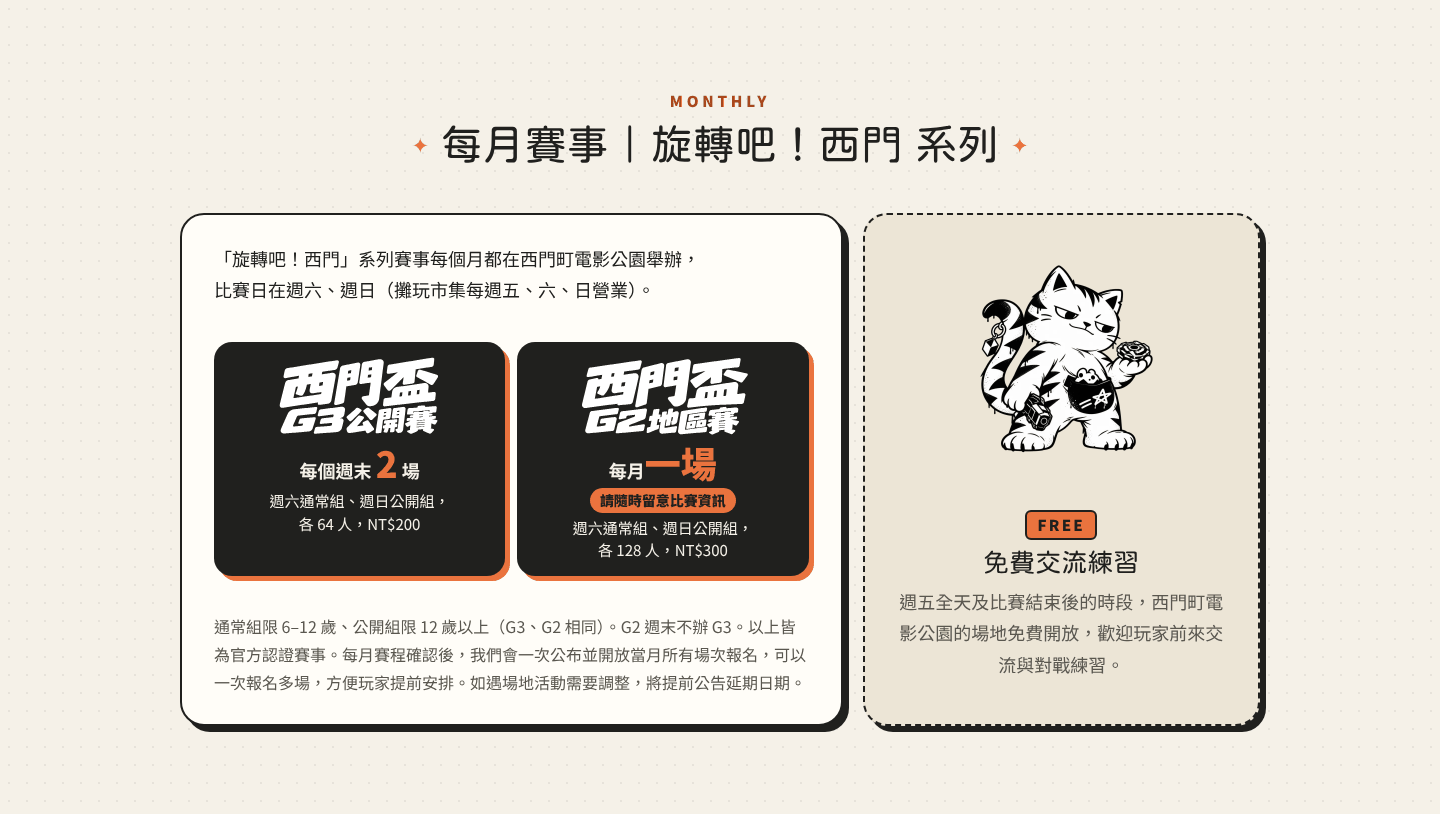
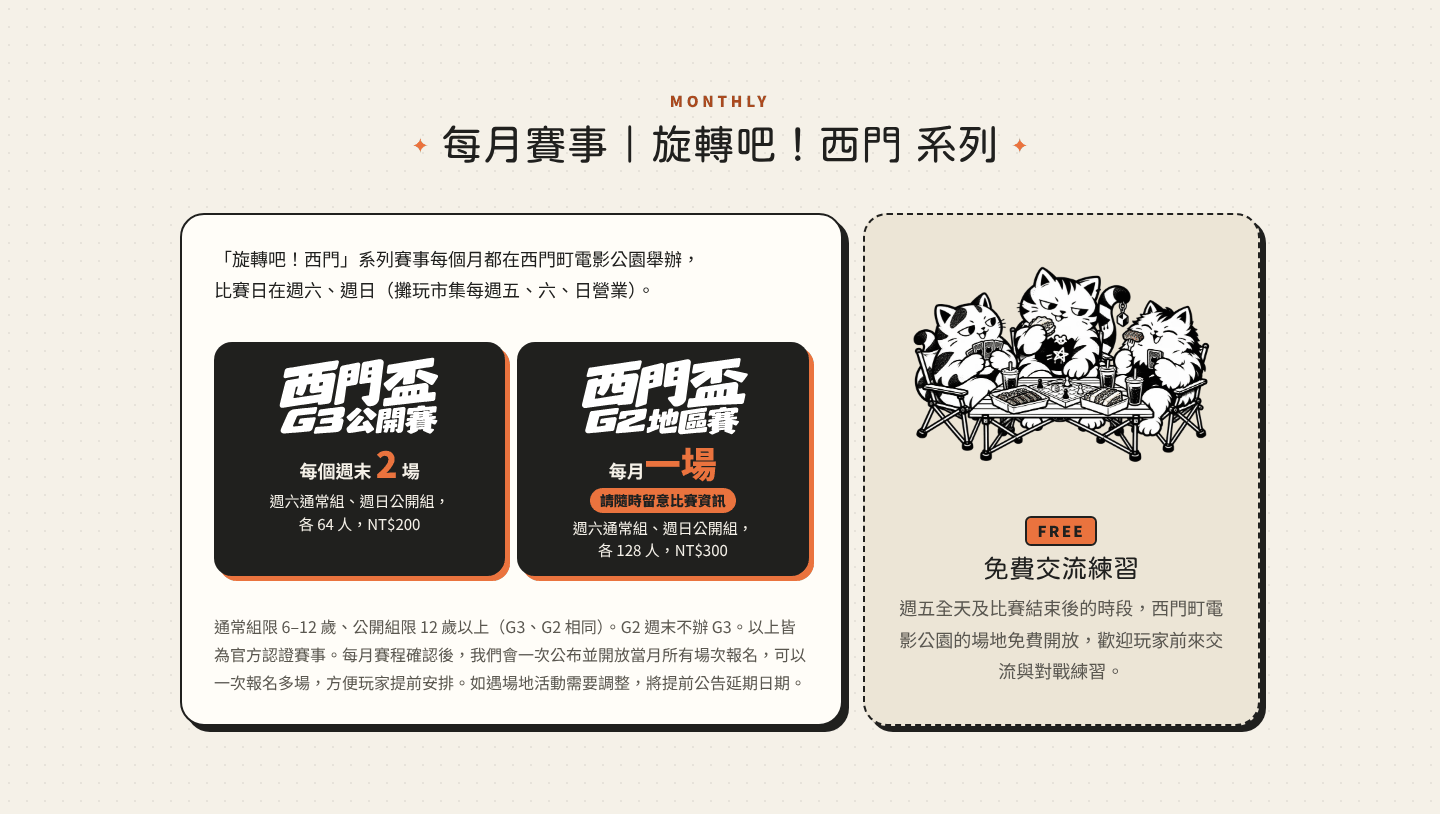
/cup/ 免費交流練習改用新插畫 cat-friends-camp，避免同頁重複圖
- 「免費交流練習」卡片原本和「賽前挑戰」都用 cat-challenge，改為 cat-friends-camp.webp
- 新插畫是橫幅比例，卡片內給較寬的寬度
- 更新每月賽事（含免費交流練習）1440／390 截圖

Claude-Session: https://claude.ai/code/session_012dQHuckgmktwtxDEBvdD1o

Changed region(s): [[0.625, 0.3071, 0.8438, 0.5835], [0.625, 0.6143, 0.8438, 0.8292]]

diff --git a/cup/index.html b/cup/index.html
@@ -249,7 +249,7 @@
             <p class="cup-monthly-note">通常組<span class="nobr">限 6–12 歲</span>、公開組<span class="nobr">限 12 歲以上</span>（G3、G2 相同）。G2 週末不辦 G3。以上皆為官方認證賽事。每月賽程確認後，我們會一次公布並開放當月所有場次報名，可以一次報名多場，方便玩家提前安排。如遇場地活動需要調整，將提前公告延期日期。</p>
           </article>
           <article class="cup-card cup-practice">
-            <img class="cup-card-cat" src="../assets/cup/cat-challenge.webp" alt="攤玩貓拿著戰鬥陀螺，等著交流對戰" width="800" height="800" loading="lazy">
+            <img class="cup-card-cat cup-practice-art" src="../assets/cup/cat-friends-camp.webp" alt="攤玩貓和朋友在露營桌邊吃東西、玩桌遊" width="900" height="675" loading="lazy">
             <div>
               <p class="cup-practice-tag">FREE</p>
               <h3>免費交流練習</h3>

diff --git a/cup/cup.css b/cup/cup.css
@@ -185,6 +185,7 @@
 .cup-card p { color: var(--muted); }
 .cup-card .btn-disabled { margin-top: 4px; }
 .cup-card-cat { width: min(60%, 220px); margin: 0 auto; }
+.cup-practice .cup-practice-art { width: min(88%, 320px); }
 
 /* ---------- 每月賽事 ---------- */
 .cup-monthly { display: grid; gap: 20px; }
@@ -322,7 +323,7 @@
   .cup-monthly { grid-template-columns: 1.25fr .75fr; align-items: stretch; }
   .cup-card.cup-monthly-main { display: flex; flex-direction: column; justify-content: center; padding: 28px 32px; }
   .cup-card.cup-practice { grid-template-columns: 1fr; gap: 12px; text-align: center; }
-  .cup-practice .cup-card-cat { width: min(70%, 200px); }
+  .cup-practice .cup-card-cat.cup-practice-art { width: min(92%, 300px); }
   .cup-card { grid-template-columns: 160px 1fr; gap: 20px; padding: 24px 28px; text-align: left; }
   .cup-card-cat { width: 100%; }
 }
